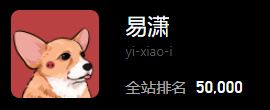
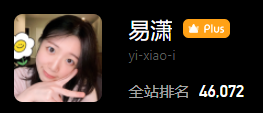
updated readme s

diff --git a/README.md b/README.md
@@ -1,11 +1,25 @@
-### Leetcode Record
+# Leetcode NoteBook 力扣笔记
 
-Collection of my Leetcode questions  
+This is a collection of my Leetcode solutions and study of DS&A
 <br>
+这是一个记录我写力扣题和学习算法的笔记
 
-Currently ranked about ~50,000 on LeetCodeCN  
+### Progress 进度
+
+Currently ranked about ~46,000 on LeetCodeCN
 <br>
 ![LEETCODECN](https://github.com/lilyzhaoyilu/LeetCodeRecord/blob/master/assets/LCCN.png)
 <br>
+
+### Quick Links 快速链接
+
+-[Sorted Questions 问题分类总结](https://github.com/lilyzhaoyilu/LeetCodeRecord/tree/master/sortedQuestions) summary for questions based on types 问题按照类别的总结  
+-[LeetCode PlusPlus - 91day4](https://github.com/lilyzhaoyilu/LeetCodeRecord/tree/master/leetcodepp4) 91 天学算法第四期是一个力扣加加的活动，大家一起打卡 -[Basic 200](https://github.com/lilyzhaoyilu/LeetCodeRecord/tree/master/Basic200) The collection of some fundemental questions for review later. 基础题合集  
+-[Daily Questions 每日一题](https://github.com/lilyzhaoyilu/LeetCodeRecord/tree/master/lcDaily) Prob does not need to review 可能不太需要复习
+
+### Lanaguages 语言
+
 Lanaguages used: JavaScript, Ruby  
-Langguages for notes: English, Chinese
+编程语言使用： JavaScript 和 Ruby  
+Langguages for notes: English, Chinese  
+笔记语言：中英

diff --git a/leetcodepp3/README.md b/leetcodepp3/README.md
@@ -1,0 +1,16 @@
+## Leetcode Plus Plus 力扣加加
+
+[力扣加加网站](https://leetcode-solution.cn/)  
+力扣加加也有微信公众号，可搜同名
+
+#### 91 算法（第三期）
+
+[91 算法第四期网站](https://algo91.herokuapp.com/91)  
+91 算法是一个为期 91 天的大家一起打卡的活动  
+大家可以一起做和学习带有讲解和按照专题的算法题  
+第三期已经结束，如果想关注可以戳官网或者第四期的网站
+
+语言主要是 JavaScript...
+中英文都有  
+Lanaguages used: mostly JavaScript  
+Langguages for notes: English, Chinese

diff --git a/leetcodepp4/README.md b/leetcodepp4/README.md
@@ -1,0 +1,15 @@
+## Leetcode Plus Plus 力扣加加
+
+[力扣加加网站](https://leetcode-solution.cn/)  
+力扣加加也有微信公众号，可搜同名
+
+#### 91 算法（第四期）
+
+[91 算法第四期网站](https://algo91.herokuapp.com/91)  
+91 算法是一个为期 91 天的大家一起打卡的活动  
+大家可以一起做和学习带有讲解和按照专题的算法题
+
+语言主要是 JavaScript...
+中英文都有  
+Lanaguages used: mostly JavaScript  
+Langguages for notes: English, Chinese

diff --git a/sortedQuestions/readme.md b/sortedQuestions/readme.md
@@ -2,7 +2,7 @@
 
 ### [Binary Search](https://github.com/lilyzhaoyilu/LeetCodeRecord/blob/master/sortedQuestions/Binary%20Search.md) :heavy_check_mark:
 
-#### Two Pointers / Sliding Window :fountain_pen:
+### [Two Pointers / Sliding Window](https://github.com/lilyzhaoyilu/LeetCodeRecord/blob/master/sortedQuestions/Two%20Pointers%20%26%20Sliding%20Window.md) :fountain_pen:
 
 #### Sorting Methods
 
